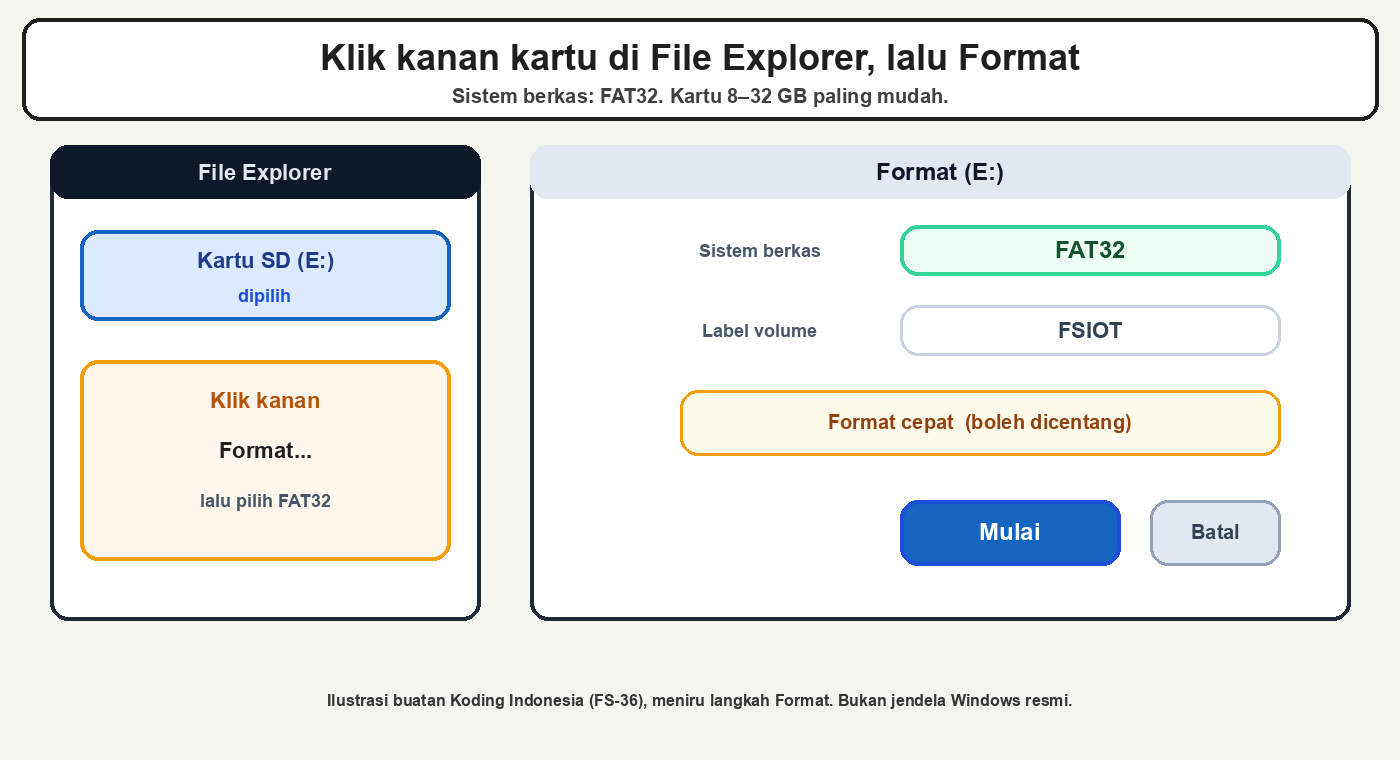
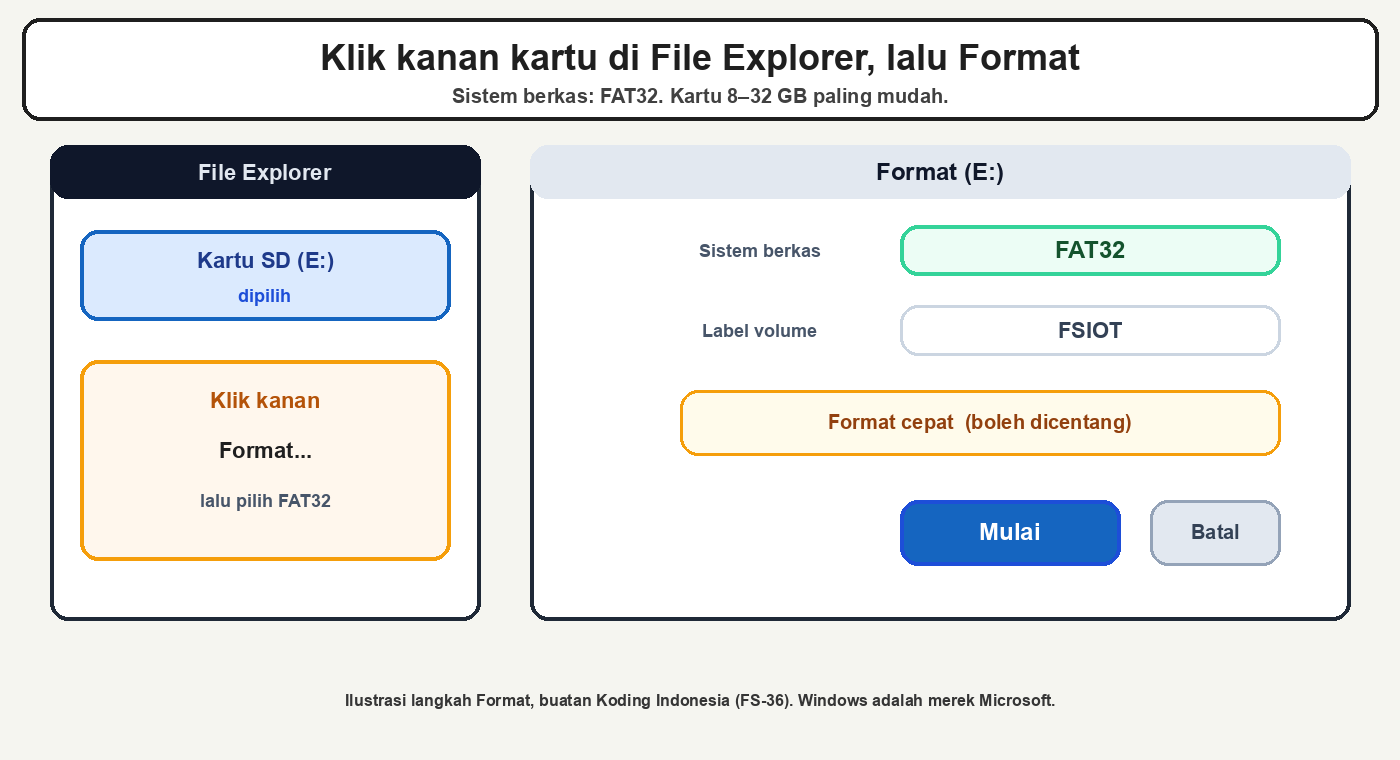
fix(fsiot): complete FS-36 wiring diagram and add six-pin kit illustration
The SPI wiring figure was missing SCK/MISO/MOSI arrows and the SD module GND, which looked broken on the live preview. Add a labelled six-pin kit illustration before the Adafruit eight-pin Commons photo so beginners do not copy the wrong pin layout.

Changed region(s): [[0.215, 0.9079, 0.7679, 0.9382]]

diff --git a/database/seeders/Article106Seeder.php b/database/seeders/Article106Seeder.php
@@ -223,10 +223,11 @@ class Article106Seeder extends Seeder
     {
         $sketch = htmlspecialchars($this->sketch(), ENT_QUOTES, 'UTF-8');
         $tools = $this->figure('fs36-tools-order.png', 'Urutan lima langkah: browser, File Explorer, Arduino IDE, kabel SPI, lalu Serial Monitor', '<strong>Urutan meja kerja (lima langkah):</strong> browser → File Explorer (format FAT32) → Arduino IDE → kabel SPI + DHT22 → Serial Monitor, lalu baca <code>log.csv</code> di komputer. Diagram buatan Koding Indonesia (FS-36).');
-        $format = $this->figure('fs36-format-fat32.png', 'Ilustrasi File Explorer: kartu dipilih, klik kanan Format, sistem berkas FAT32, tombol Mulai', '<strong>Klik kanan ikon kartu di File Explorer, lalu Format.</strong> Pilih sistem berkas <strong>FAT32</strong>, label boleh <code>FSIOT</code>, centang format cepat, lalu Mulai. Ilustrasi buatan Koding Indonesia (FS-36), meniru langkah Format. Bukan jendela Windows resmi. Acuan format: dokumentasi kartu SD di artikel ini; Windows adalah merek Microsoft.');
-        $wiring = $this->figure('fs36-wiring-spi.png', 'Wiring modul microSD SPI dan DHT22 ke ESP32 menurut label pin, bukan urutan kaki foto', '<strong>Gambar utama — wiring.</strong> Cocokkan tulisan pin: CS → GPIO 5, SCK → GPIO 18, MISO → GPIO 19, MOSI → GPIO 23, DHT22 DATA → GPIO 4, GND bersama. VCC modul SD mengikuti label 5V atau 3V3. Urutan kaki fisik bisa berbeda antarmodul. Diagram buatan Koding Indonesia (FS-36).');
+        $format = $this->figure('fs36-format-fat32.png', 'Ilustrasi File Explorer: kartu dipilih, klik kanan Format, sistem berkas FAT32, tombol Mulai', '<strong>Klik kanan ikon kartu di File Explorer, lalu Format.</strong> Pilih sistem berkas <strong>FAT32</strong>, label boleh <code>FSIOT</code>, centang format cepat, lalu Mulai. Ilustrasi langkah Format, buatan Koding Indonesia (FS-36). Windows adalah merek Microsoft.');
+        $wiring = $this->figure('fs36-wiring-spi.png', 'Wiring lengkap microSD SPI dan DHT22 ke ESP32: setiap pin ESP32 punya pasangan, termasuk GND modul SD', '<strong>Gambar utama — wiring.</strong> Tiap kabel punya pasangan: CS → GPIO 5, SCK → GPIO 18, MISO → GPIO 19, MOSI → GPIO 23, DHT22 DATA → GPIO 4, <strong>GND modul SD juga ke GND ESP32</strong>. VCC modul SD mengikuti label 5V atau 3V3. Urutan kaki fisik bisa berbeda antarmodul. Diagram buatan Koding Indonesia (FS-36).');
+        $kitModule = $this->figure('fs36-modul-kit.png', 'Ilustrasi modul microSD SPI kit dengan enam pin CS SCK MOSI MISO VCC GND', '<strong>Kenali modul kit dulu.</strong> Toko sering menjual papan biru enam pin seperti ini. Baca tulisannya: CS, SCK, MOSI, MISO, VCC, GND. Urutan kaki di papanmu boleh berbeda. Ilustrasi buatan Koding Indonesia (FS-36).');
         $cardPhoto = $this->figure('kit-microsd-card.jpg', 'Contoh rupa kartu microSD dan adapter SD plastik untuk slot kamera atau laptop', '<strong>Contoh rupa kartu saja.</strong> Foto ini membantu mengenali microSD dan adapter SD. Adapter plastik itu untuk slot laptop atau kamera. <strong>Jangan menyambungkannya ke pin ESP32.</strong> <strong>Jangan menyalin urutan kaki dari foto.</strong> Modul ke ESP32 adalah papan SPI terpisah. Sumber: <a href="https://commons.wikimedia.org/wiki/File:2015_Karta_microSD_z_adapterem_SD.jpg" target="_blank" rel="noopener noreferrer">2015 Karta microSD z adapterem SD</a> · Jacek Halicki · Wikimedia Commons · Creative Commons Attribution-Share Alike 4.0.');
-        $spiPhoto = $this->figure('kit-microsd-spi.jpg', 'Contoh rupa papan breakout microSD SPI Adafruit, bukan modul kit biru enam pin', '<strong>Contoh rupa papan SPI saja.</strong> Ini breakout Adafruit, bukan modul kit toko yang sering berwarna biru dengan enam pin. Bentuknya boleh berbeda; busnya tetap SPI. <strong>Jangan menyalin urutan kaki dari foto.</strong> Wiring tetap menurut tulisan pin dan tabel GPIO di artikel ini. Sumber: <a href="https://commons.wikimedia.org/wiki/File:SD_Card_Breakout_Board.jpg" target="_blank" rel="noopener noreferrer">SD Card Breakout Board</a> · oomlout · Wikimedia Commons · Creative Commons Attribution-Share Alike 2.0. Asal Flickr, diunggah ulang ke Commons.');
+        $spiPhoto = $this->figure('kit-microsd-spi.jpg', 'Contoh rupa papan breakout microSD SPI Adafruit delapan pin, bukan modul kit enam pin', '<strong>Bentuk lain, delapan pin.</strong> Ini breakout Adafruit (ada kaki CD, 3V, dan 5V). Kit toko sering hanya enam pin seperti ilustrasi di atas. Busnya tetap SPI. <strong>Jangan menyalin urutan kaki dari foto.</strong> Wiring menurut tulisan pin dan tabel GPIO. Sumber: <a href="https://commons.wikimedia.org/wiki/File:SD_Card_Breakout_Board.jpg" target="_blank" rel="noopener noreferrer">SD Card Breakout Board</a> · oomlout · Wikimedia Commons · Creative Commons Attribution-Share Alike 2.0. Asal Flickr, diunggah ulang ke Commons.');
         $dhtPhoto = $this->figure('kit-dht22.jpg', 'Contoh rupa modul DHT22 AM2302 pada papan merah, tiga pin berlabel DAT, VCC, dan GND', '<strong>Contoh rupa sensor suhu.</strong> <strong>Jangan menyalin urutan kaki dari foto.</strong> Wiring DHT22 tetap: VCC → 3V3, DATA atau DAT → GPIO 4, GND → GND. Sumber: <a href="https://commons.wikimedia.org/wiki/File:DHT_22_Sensor.jpg" target="_blank" rel="noopener noreferrer">AM2302 DHT22 Sensor</a> · L293D · Wikimedia Commons · Creative Commons Attribution-Share Alike 4.0.');
         $flow = $this->figure('fs36-csv-flow.png', 'Alur kiri ke kanan: DHT22, ESP32, berkas log.csv di kartu, lalu komputer', '<strong>Gambar utama — alur berkas.</strong> Baca dari kiri ke kanan: DHT22 → ESP32 → <code>log.csv</code> → komputer. Hari ini tidak lewat Mosquitto. Diagram buatan Koding Indonesia (FS-36).');
         $clock = $this->figure('fs36-millis-vs-ntp.png', 'Perbandingan kolom timestamp_ms saat PAKAI_NTP false dan waktu_wib saat PAKAI_NTP true', '<strong>millis bukan jam dinding.</strong> Uji pertama pakai <code>timestamp_ms</code>. NTP (jam internet) butuh Wi-Fi rumah. Diagram buatan Koding Indonesia (FS-36).');
@@ -267,7 +268,7 @@ class Article106Seeder extends Seeder
 <li><strong><code>log.csv</code></strong> — nama berkas di akar kartu.</li>
 <li><strong>millis</strong> — milidetik sejak ESP32 menyala. Bukan jam dinding.</li>
 <li><strong>NTP</strong> — jam internet. Butuh Wi-Fi rumah. Di sini zona WIB (GMT+7).</li>
-<li><strong>Mount</strong> — ESP32 berhasil membaca kartu. Gagal mount = Serial menulis <code>Kartu tidak terbaca</code>.</li>
+<li><strong>Mount</strong> — ESP32 berhasil membaca kartu. Kalau gagal, Serial menulis kalimat <code>Kartu tidak terbaca</code>.</li>
 <li><strong>GND bersama</strong> — ESP32, modul SD, dan DHT22 memakai satu ground.</li>
 </ul>
 
@@ -299,7 +300,7 @@ HTML
 
 <h2>Pasang kabel SPI dan DHT22</h2>
 HTML
-            .$wiring.$spiPhoto.$dhtPhoto.<<<'HTML'
+            .$wiring.$kitModule.$spiPhoto.$dhtPhoto.<<<'HTML'
 <p>Cabut USB ESP32 sebelum merapikan kabel. Pin SPI lab ini dikunci (VSPI Arduino-ESP32):</p>
 <table>
 <thead><tr><th>Tulisan di modul SD</th><th>GPIO ESP32</th></tr></thead>
@@ -433,7 +434,7 @@ HTML
 <li><a href="https://commons.wikimedia.org/wiki/File:2015_Karta_microSD_z_adapterem_SD.jpg" target="_blank" rel="noopener noreferrer">2015 Karta microSD z adapterem SD</a> · Jacek Halicki · Wikimedia Commons · Creative Commons Attribution-Share Alike 4.0. Foto hanya contoh rupa kartu; jangan menyalin urutan kaki; adapter bukan modul SPI.</li>
 <li><a href="https://commons.wikimedia.org/wiki/File:SD_Card_Breakout_Board.jpg" target="_blank" rel="noopener noreferrer">SD Card Breakout Board</a> · oomlout · Wikimedia Commons · Creative Commons Attribution-Share Alike 2.0. Foto hanya contoh rupa papan SPI; jangan menyalin urutan kaki dari foto.</li>
 <li><a href="https://commons.wikimedia.org/wiki/File:DHT_22_Sensor.jpg" target="_blank" rel="noopener noreferrer">AM2302 DHT22 Sensor</a> · L293D · Wikimedia Commons · Creative Commons Attribution-Share Alike 4.0. Foto hanya contoh rupa; jangan menyalin urutan kaki dari foto.</li>
-<li>Diagram urutan tools, wiring, alur CSV, millis lawan NTP, skema periksa, serta ilustrasi Format dan Serial Monitor — Koding Indonesia (FS-36)</li>
+<li>Diagram urutan tools, wiring, alur CSV, millis lawan NTP, skema periksa, serta ilustrasi Format, modul kit enam pin, dan Serial Monitor — Koding Indonesia (FS-36)</li>
 </ul>
 
 <h2>Selanjutnya</h2>
@@ -445,10 +446,11 @@ HTML;
     {
         $sketch = htmlspecialchars($this->sketch(), ENT_QUOTES, 'UTF-8');
         $tools = $this->figure('fs36-tools-order.png', 'Five-step tool order: browser, File Explorer, Arduino IDE, SPI wiring, then Serial Monitor', '<strong>Desk order (five steps):</strong> browser → File Explorer (FAT32 format) → Arduino IDE → SPI + DHT22 wiring → Serial Monitor, then read <code>log.csv</code> on the computer. Diagram by Koding Indonesia (FS-36).');
-        $format = $this->figure('fs36-format-fat32.png', 'File Explorer illustration: card selected, right-click Format, FAT32 file system, Start button', '<strong>Right-click the card icon in File Explorer, then Format.</strong> Choose file system <strong>FAT32</strong>, the label may be <code>FSIOT</code>, quick format is fine, then Start. Illustration by Koding Indonesia (FS-36), modelled on the Format step. Not an official Windows window. Windows is a trademark of Microsoft.');
-        $wiring = $this->figure('fs36-wiring-spi.png', 'microSD SPI module and DHT22 wiring to ESP32 by printed labels, not photo pin order', '<strong>Main figure — wiring.</strong> Match the printed labels: CS → GPIO 5, SCK → GPIO 18, MISO → GPIO 19, MOSI → GPIO 23, DHT22 DATA → GPIO 4, shared GND. SD module VCC follows the 5V or 3V3 label. Physical pin order can differ between modules. Diagram by Koding Indonesia (FS-36).');
+        $format = $this->figure('fs36-format-fat32.png', 'File Explorer illustration: card selected, right-click Format, FAT32 file system, Start button', '<strong>Right-click the card icon in File Explorer, then Format.</strong> Choose file system <strong>FAT32</strong>, the label may be <code>FSIOT</code>, quick format is fine, then Start. Format-step illustration by Koding Indonesia (FS-36). Windows is a trademark of Microsoft.');
+        $wiring = $this->figure('fs36-wiring-spi.png', 'Complete microSD SPI and DHT22 wiring to ESP32: each ESP32 pin has a partner, including SD module GND', '<strong>Main figure — wiring.</strong> Each cable has a partner: CS → GPIO 5, SCK → GPIO 18, MISO → GPIO 19, MOSI → GPIO 23, DHT22 DATA → GPIO 4, and <strong>the SD module GND also goes to ESP32 GND</strong>. SD module VCC follows the 5V or 3V3 label. Physical pin order can differ between modules. Diagram by Koding Indonesia (FS-36).');
+        $kitModule = $this->figure('fs36-modul-kit.png', 'Illustration of a typical six-pin kit microSD SPI module labelled CS SCK MOSI MISO VCC GND', '<strong>Recognise the kit module first.</strong> Shops often sell a blue six-pin board like this. Read the print: CS, SCK, MOSI, MISO, VCC, GND. The physical order on your board may differ. Illustration by Koding Indonesia (FS-36).');
         $cardPhoto = $this->figure('kit-microsd-card.jpg', 'Example microSD card and plastic SD adapter for a camera or laptop slot', '<strong>Appearance example only.</strong> This photo helps you recognise a microSD card and SD adapter. The plastic adapter is for a laptop or camera slot. <strong>Do not wire it to ESP32 pins.</strong> <strong>Do not copy pin order from the photo.</strong> The ESP32 needs a separate SPI module. Source: <a href="https://commons.wikimedia.org/wiki/File:2015_Karta_microSD_z_adapterem_SD.jpg" target="_blank" rel="noopener noreferrer">2015 Karta microSD z adapterem SD</a> · Jacek Halicki · Wikimedia Commons · Creative Commons Attribution-Share Alike 4.0.');
-        $spiPhoto = $this->figure('kit-microsd-spi.jpg', 'Example Adafruit microSD SPI breakout board, not a typical six-pin blue kit module', '<strong>SPI board appearance only.</strong> This is an Adafruit breakout, not the blue six-pin module many kits ship. The shape may differ; the bus is still SPI. <strong>Do not copy pin order from the photo.</strong> Wiring still follows the printed labels and the GPIO table in this article. Source: <a href="https://commons.wikimedia.org/wiki/File:SD_Card_Breakout_Board.jpg" target="_blank" rel="noopener noreferrer">SD Card Breakout Board</a> · oomlout · Wikimedia Commons · Creative Commons Attribution-Share Alike 2.0. Originally on Flickr, re-uploaded to Commons.');
+        $spiPhoto = $this->figure('kit-microsd-spi.jpg', 'Example Adafruit eight-pin microSD SPI breakout, not a six-pin kit module', '<strong>Another shape, eight pins.</strong> This is an Adafruit breakout (extra CD, 3V, and 5V pads). Shop kits often have only six pins, as in the illustration above. The bus is still SPI. <strong>Do not copy pin order from the photo.</strong> Wiring follows the printed labels and the GPIO table. Source: <a href="https://commons.wikimedia.org/wiki/File:SD_Card_Breakout_Board.jpg" target="_blank" rel="noopener noreferrer">SD Card Breakout Board</a> · oomlout · Wikimedia Commons · Creative Commons Attribution-Share Alike 2.0. Originally on Flickr, re-uploaded to Commons.');
         $dhtPhoto = $this->figure('kit-dht22.jpg', 'Example DHT22 AM2302 module on a red board with three pins labelled DAT, VCC, and GND', '<strong>Sensor appearance only.</strong> <strong>Do not copy pin order from the photo.</strong> DHT22 wiring is still: VCC → 3V3, DATA or DAT → GPIO 4, GND → GND. Source: <a href="https://commons.wikimedia.org/wiki/File:DHT_22_Sensor.jpg" target="_blank" rel="noopener noreferrer">AM2302 DHT22 Sensor</a> · L293D · Wikimedia Commons · Creative Commons Attribution-Share Alike 4.0.');
         $flow = $this->figure('fs36-csv-flow.png', 'Left-to-right flow: DHT22, ESP32, log.csv on the card, then the computer', '<strong>Main figure — file flow.</strong> Read left to right: DHT22 → ESP32 → <code>log.csv</code> → computer. Mosquitto is not in this path today. Diagram by Koding Indonesia (FS-36).');
         $clock = $this->figure('fs36-millis-vs-ntp.png', 'Comparison of timestamp_ms when PAKAI_NTP is false and waktu_wib when PAKAI_NTP is true', '<strong>millis is not wall-clock time.</strong> The first test uses <code>timestamp_ms</code>. NTP (internet time) needs home Wi-Fi. Diagram by Koding Indonesia (FS-36).');
@@ -521,7 +523,7 @@ HTML
 
 <h2>Wire SPI and DHT22</h2>
 HTML
-            .$wiring.$spiPhoto.$dhtPhoto.<<<'HTML'
+            .$wiring.$kitModule.$spiPhoto.$dhtPhoto.<<<'HTML'
 <p>Unplug ESP32 USB before rearranging cables. This lab locks the Arduino-ESP32 VSPI pins:</p>
 <table>
 <thead><tr><th>Label on the SD module</th><th>ESP32 GPIO</th></tr></thead>
@@ -655,7 +657,7 @@ HTML
 <li><a href="https://commons.wikimedia.org/wiki/File:2015_Karta_microSD_z_adapterem_SD.jpg" target="_blank" rel="noopener noreferrer">2015 Karta microSD z adapterem SD</a> · Jacek Halicki · Wikimedia Commons · Creative Commons Attribution-Share Alike 4.0. Appearance example only; do not copy pin order; the adapter is not an SPI module.</li>
 <li><a href="https://commons.wikimedia.org/wiki/File:SD_Card_Breakout_Board.jpg" target="_blank" rel="noopener noreferrer">SD Card Breakout Board</a> · oomlout · Wikimedia Commons · Creative Commons Attribution-Share Alike 2.0. Appearance example only; do not copy pin order from the photo.</li>
 <li><a href="https://commons.wikimedia.org/wiki/File:DHT_22_Sensor.jpg" target="_blank" rel="noopener noreferrer">AM2302 DHT22 Sensor</a> · L293D · Wikimedia Commons · Creative Commons Attribution-Share Alike 4.0. Appearance example only; do not copy pin order from the photo.</li>
-<li>Tool-order, wiring, CSV-flow, millis-versus-NTP, troubleshooting, Format, and Serial Monitor diagrams — Koding Indonesia (FS-36)</li>
+<li>Tool-order, wiring, CSV-flow, millis-versus-NTP, troubleshooting, Format, six-pin kit module, and Serial Monitor diagrams — Koding Indonesia (FS-36)</li>
 </ul>
 
 <h2>Next</h2>

diff --git a/scripts/gen-fs36-assets.py b/scripts/gen-fs36-assets.py
@@ -122,50 +122,87 @@ box(draw, (900, 500, 1120, 565), '#1565c0', '#1d4ed8', 4)
 text(draw, 1010, 532, 'Mulai', 24, '#ffffff')
 box(draw, (1150, 500, 1280, 565), '#e2e8f0', '#94a3b8', 3)
 text(draw, 1215, 532, 'Batal', 20, '#334155')
-text(draw, 700, 700, 'Ilustrasi buatan Koding Indonesia (FS-36), meniru langkah Format. Bukan jendela Windows resmi.', 16, '#353535')
+text(draw, 700, 700, 'Ilustrasi langkah Format, buatan Koding Indonesia (FS-36). Windows adalah merek Microsoft.', 16, '#353535')
 save(image, 'fs36-format-fat32.png')
 
-# Wiring — labels, not physical pin order
-image = Image.new('RGB', (1400, 780), '#f5f5f0')
+# Typical 6-pin kit module — shops often sell this shape, not the 8-pin Adafruit photo
+image = Image.new('RGB', (1400, 720), '#f5f5f0')
 draw = ImageDraw.Draw(image)
-header(draw, 1400, 'Wiring microSD SPI + DHT22 — ikuti tulisan pin', 'Jangan menebak urutan kaki dari foto. GND harus bersama.')
-box(draw, (40, 145, 430, 700), '#e3f2fd', '#1565c0')
-text(draw, 235, 185, 'ESP32 DevKitC-1', 24, '#1565c0')
-pins = [
-    (245, '5V', '#ef4444'),
-    (305, '3V3', '#f97316'),
-    (365, 'GPIO 5  CS', '#1565c0'),
-    (425, 'GPIO 18  SCK', '#0f766e'),
-    (485, 'GPIO 19  MISO', '#7c3aed'),
-    (545, 'GPIO 23  MOSI', '#c026d3'),
-    (605, 'GPIO 4  DATA', '#2563eb'),
-    (665, 'GND', '#374151'),
+header(draw, 1400, 'Modul kit toko sering berbentuk papan enam pin', 'Baca tulisan pin. Urutan kaki fisik boleh berbeda.')
+box(draw, (80, 150, 620, 620), '#1d4ed8', '#1e3a8a')
+text(draw, 350, 190, 'microSD  SPI', 28, '#ffffff')
+box(draw, (140, 230, 560, 330), '#cbd5e1', '#94a3b8', 3)
+text(draw, 350, 265, 'slot kartu', 22, '#0f172a')
+text(draw, 350, 305, 'masukkan microSD di sini', 18, '#334155')
+kit_pins = ['CS', 'SCK', 'MOSI', 'MISO', 'VCC', 'GND']
+for index, label in enumerate(kit_pins):
+    x = 130 + index * 80
+    box(draw, (x, 380, x + 64, 520), '#fde68a', '#b45309', 3)
+    text(draw, x + 32, 450, label, 16, '#78350f')
+text(draw, 350, 575, 'enam pin  ·  contoh rupa, bukan urutan wajib', 18, '#e0e7ff')
+box(draw, (700, 170, 1320, 600), '#ffffff', '#1565c0')
+text(draw, 1010, 220, 'Yang kamu cocokkan', 26, '#1565c0')
+pairs = [
+    'CS / SS          →  GPIO 5',
+    'SCK / CLK        →  GPIO 18',
+    'MISO / DO        →  GPIO 19',
+    'MOSI / DI        →  GPIO 23',
+    'VCC              →  5V atau 3V3',
+    'GND              →  GND',
 ]
-for y, label, color in pins:
-    box(draw, (70, y - 24, 400, y + 24), '#ffffff', color, 3)
-    text(draw, 235, y, label, 18, color)
-box(draw, (500, 145, 890, 520), '#fff8e1', '#f59e0b')
-text(draw, 695, 185, 'Modul microSD SPI', 24, '#b45309')
+for index, line in enumerate(pairs):
+    text(draw, 1010, 290 + index * 42, line, 20, '#0f172a')
+text(draw, 700, 670, 'Catatan lab: foto Adafruit delapan pin di artikel ini bentuk lain. Kit biru enam pin tetap SPI.', 18, '#b45309')
+save(image, 'fs36-modul-kit.png')
+
+# Wiring — one arrow per net, GND on the SD module too
+image = Image.new('RGB', (1400, 860), '#f5f5f0')
+draw = ImageDraw.Draw(image)
+header(draw, 1400, 'Wiring microSD SPI + DHT22 — ikuti tulisan pin', 'Setiap kabel punya pasangan. GND modul SD juga harus tersambung.')
+box(draw, (40, 145, 400, 790), '#e3f2fd', '#1565c0')
+text(draw, 220, 180, 'ESP32 DevKitC-1', 22, '#1565c0')
+esp_pins = [
+    (240, '5V', '#ef4444'),
+    (310, '3V3', '#f97316'),
+    (380, 'GPIO 5  CS', '#1565c0'),
+    (450, 'GPIO 18  SCK', '#0f766e'),
+    (520, 'GPIO 19  MISO', '#7c3aed'),
+    (590, 'GPIO 23  MOSI', '#c026d3'),
+    (660, 'GPIO 4  DATA', '#2563eb'),
+    (730, 'GND', '#374151'),
+]
+for y, label, color in esp_pins:
+    box(draw, (70, y - 26, 370, y + 26), '#ffffff', color, 3)
+    text(draw, 220, y, label, 18, color)
+box(draw, (520, 145, 900, 790), '#fff8e1', '#f59e0b')
+text(draw, 710, 180, 'Modul microSD SPI', 22, '#b45309')
 sd_pins = [
-    (250, 'VCC  (5V atau 3V3)', '#ef4444'),
-    (315, 'CS', '#1565c0'),
-    (380, 'SCK / CLK', '#0f766e'),
-    (445, 'MISO / DO', '#7c3aed'),
-    (510, 'MOSI / DI', '#c026d3'),
+    (240, 'VCC  (5V / 3V3)', '#ef4444'),
+    (380, 'CS / SS', '#1565c0'),
+    (450, 'SCK / CLK', '#0f766e'),
+    (520, 'MISO / DO', '#7c3aed'),
+    (590, 'MOSI / DI', '#c026d3'),
+    (730, 'GND', '#374151'),
 ]
 for y, label, color in sd_pins:
-    box(draw, (530, y - 24, 860, y + 24), '#ffffff', color, 3)
-    text(draw, 695, y, label, 18, color)
-box(draw, (960, 145, 1360, 430), '#e8f5e9', '#2e7d32')
-text(draw, 1160, 185, 'DHT22', 24, '#2e7d32')
-for y, label, color in [(250, 'VCC → 3V3', '#f97316'), (320, 'DATA / DAT → 4', '#2563eb'), (390, 'GND', '#374151')]:
-    box(draw, (990, y - 24, 1330, y + 24), '#ffffff', color, 3)
-    text(draw, 1160, y, label, 18, color)
-arrow(draw, (430, 245), (500, 250), '#ef4444', 6, 14)
-arrow(draw, (430, 365), (500, 315), '#1565c0', 6, 14)
-arrow(draw, (430, 605), (960, 320), '#2563eb', 6, 14)
-arrow(draw, (430, 665), (960, 390), '#374151', 6, 14)
-text(draw, 700, 735, 'Catatan lab: jika modul SD hanya tercetak 3V3, VCC ke 3V3. Sinyal SPI jangan ke 5V. Bukan AC 220V.', 18, '#b45309')
+    box(draw, (550, y - 26, 870, y + 26), '#ffffff', color, 3)
+    text(draw, 710, y, label, 18, color)
+box(draw, (1020, 145, 1360, 790), '#e8f5e9', '#2e7d32')
+text(draw, 1190, 180, 'DHT22', 22, '#2e7d32')
+dht_pins = [
+    (310, 'VCC → 3V3', '#f97316'),
+    (660, 'DATA → GPIO 4', '#2563eb'),
+    (730, 'GND', '#374151'),
+]
+for y, label, color in dht_pins:
+    box(draw, (1050, y - 26, 1330, y + 26), '#ffffff', color, 3)
+    text(draw, 1190, y, label, 18, color)
+for y, color in [(240, '#ef4444'), (380, '#1565c0'), (450, '#0f766e'), (520, '#7c3aed'), (590, '#c026d3'), (730, '#374151')]:
+    arrow(draw, (370, y), (550, y), color, 6, 14)
+arrow(draw, (370, 310), (1050, 310), '#f97316', 6, 14)
+arrow(draw, (370, 660), (1050, 660), '#2563eb', 6, 14)
+arrow(draw, (870, 730), (1050, 730), '#374151', 6, 14)
+text(draw, 700, 825, 'Catatan lab: jika modul SD hanya tercetak 3V3, VCC ke 3V3. Sinyal SPI jangan ke 5V. Bukan AC 220V.', 18, '#b45309')
 save(image, 'fs36-wiring-spi.png')
 
 # CSV flow left to right

diff --git a/scripts/audit-article106.php b/scripts/audit-article106.php
@@ -49,7 +49,7 @@ check106('route and controller exist', str_contains($routes, 'seed-article-106-d
 check106('priority deploy and seed exist', str_contains($workflow, 'id: curl106_priority') && str_contains($workflow, 'seed-article-106-draft'));
 check106('priority upload precedes FS-35 uploads', strpos($workflow, 'id: curl106_priority') < strpos($workflow, 'id: curl105_priority'));
 check106('FS-36 seed is enabled after priority upload', str_contains($workflow, "if: steps.curl106_priority.outcome == 'success'"));
-check106('kit photos are in the priority upload', str_contains($workflow, 'fs36-serial-monitor.png') && str_contains($workflow, 'kit-microsd-card.jpg') && str_contains($workflow, 'kit-microsd-spi.jpg') && str_contains($workflow, 'kit-dht22.jpg'));
+check106('kit photos are in the priority upload', str_contains($workflow, 'fs36-serial-monitor.png') && str_contains($workflow, 'fs36-modul-kit.png') && str_contains($workflow, 'kit-microsd-card.jpg') && str_contains($workflow, 'kit-microsd-spi.jpg') && str_contains($workflow, 'kit-dht22.jpg'));
 check106('cover is copied into public storage', str_contains($source, 'articles/covers/fs36-cover-sd') && str_contains($source, "Storage::disk('public')->put"));
 check106('trashed slug is restored', str_contains($source, 'withTrashed()') && str_contains($source, 'restore()'));
 check106('ID and EN references', str_contains($body, '#106 (ini)') && str_contains($bodyEn, '#106 (this article)'));
@@ -82,7 +82,9 @@ check106('article view supports absolute cover URLs', str_contains($blade, "str_
 check106('H2 parity', substr_count($body, '<h2') === substr_count($bodyEn, '<h2') && substr_count($body, '<h2') >= 16);
 check106('glossary heading exists in both languages', str_contains($body, 'Istilah yang dipakai hari ini') && str_contains($bodyEn, 'Terms used today'));
 check106('FAQ and sources headings exist', str_contains($body, 'Pertanyaan yang sering muncul') && str_contains($body, '>Sumber<') && str_contains($bodyEn, 'Frequently asked questions') && str_contains($bodyEn, '>Sources<'));
-check106('seven FS-36 image figures in both languages', substr_count($body, '/images/fsiot/fs36-') === 7 && substr_count($bodyEn, '/images/fsiot/fs36-') === 7);
+check106('eight FS-36 image figures in both languages', substr_count($body, '/images/fsiot/fs36-') === 8 && substr_count($bodyEn, '/images/fsiot/fs36-') === 8);
+check106('wiring figure includes SD module GND', str_contains($body, 'GND modul SD juga ke GND ESP32') && str_contains($bodyEn, 'SD module GND also goes to ESP32 GND'));
+check106('six-pin kit module is illustrated before the Adafruit photo', strpos($body, 'fs36-modul-kit.png') < strpos($body, 'kit-microsd-spi.jpg') && strpos($bodyEn, 'fs36-modul-kit.png') < strpos($bodyEn, 'kit-microsd-spi.jpg'));
 check106('Koding Indonesia diagrams attributed', substr_count($body, 'Diagram buatan Koding Indonesia (FS-36)') === 5 && substr_count($bodyEn, 'Diagram by Koding Indonesia (FS-36)') === 5);
 check106('phone zoom tip exists', str_contains($body, 'Tips ponsel') && str_contains($bodyEn, 'Phone tip'));
 check106('interactive checklist is wired', str_contains($body, 'id="fsiot-sd-checklist"') && str_contains($body, 'id="fsiot-sd-checklist-items"') && str_contains($blade, "storagePrefix: 'fsiot-cl-106'") && str_contains($langId, 'fsiot_sd_badge') && str_contains($langEn, 'fsiot_sd_badge'));
@@ -105,6 +107,7 @@ foreach ([
     'fs36-cover-sd.webp',
     'fs36-tools-order.png',
     'fs36-format-fat32.png',
+    'fs36-modul-kit.png',
     'fs36-wiring-spi.png',
     'fs36-csv-flow.png',
     'fs36-millis-vs-ntp.png',
